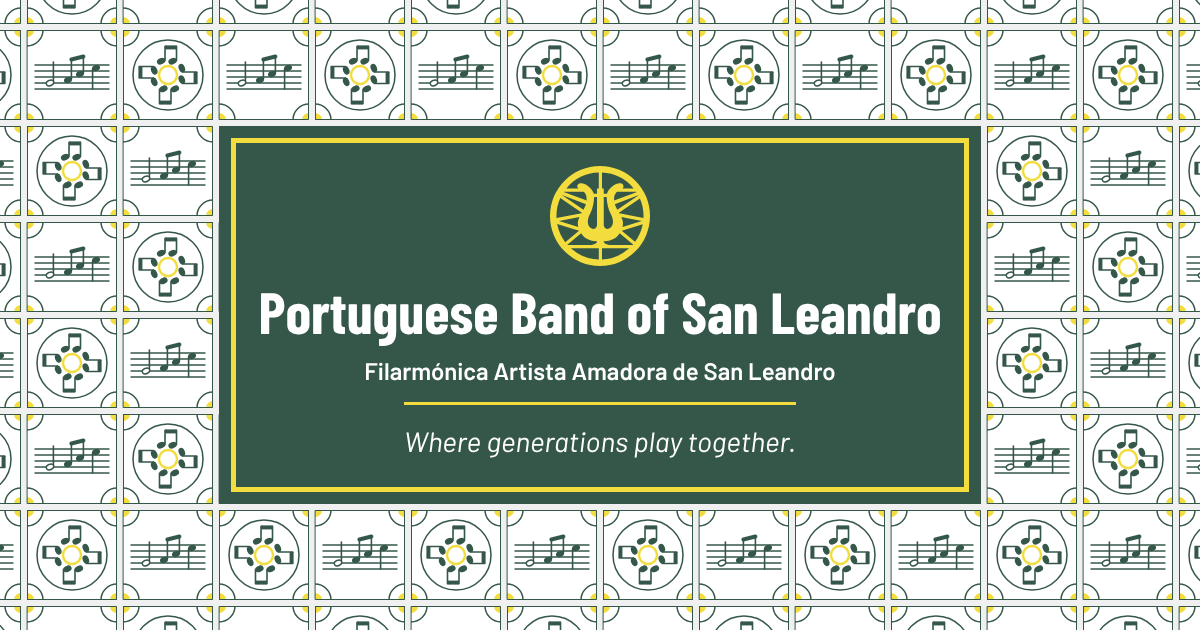
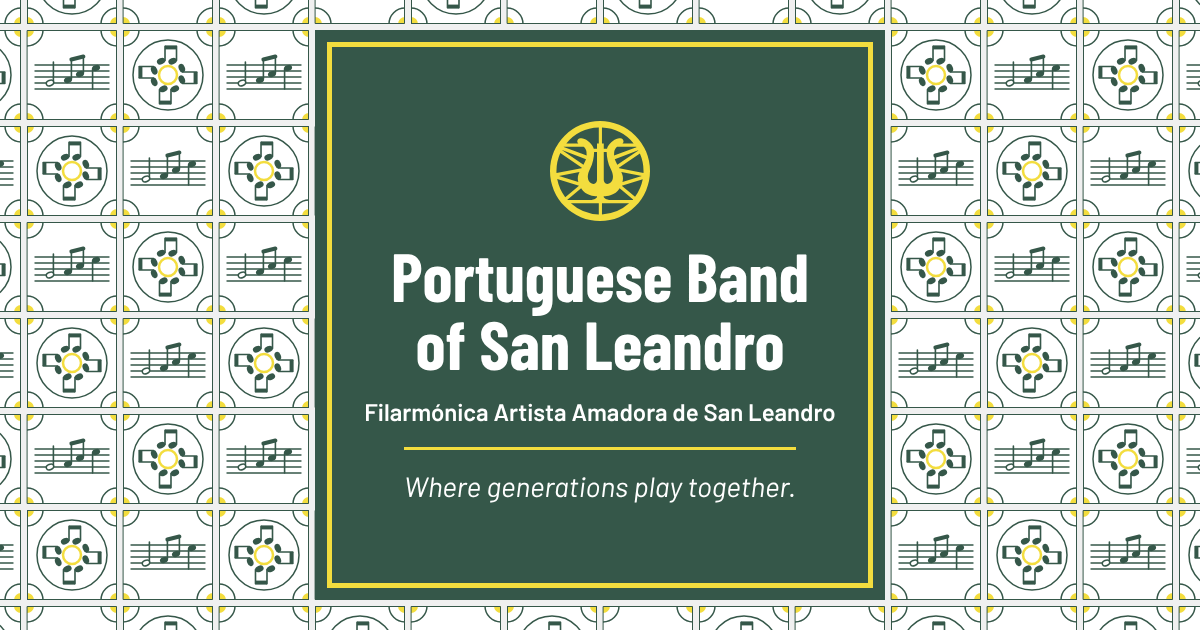
Share image: use the square box
Claude-Session: https://claude.ai/code/session_01G1oWUYPw8nBcffnSWFjEqH

Changed region(s): [[0.185, 0.0302, 0.8325, 0.9651]]

diff --git a/docs/brand.md b/docs/brand.md
@@ -16,7 +16,7 @@ Translation: "Band of Amateur Artists of San Leandro".
 
 - **Minimalist logo** (`src/assets/logo.svg`): a gold lyre in a circle. Used now for the header and favicon.
 - **Favicon and app icons:** the gold lyre on hunter green: a disc for browser tabs (`public/favicon.svg`, `favicon.ico`), a square for phone home screens (`apple-touch-icon.png`) and for search engines' organization logo (`logo.png`, 512 px). Never gold on transparent: it nearly disappears on white.
-- **Share image** (`public/share.png`, 1200×630): what links show when shared on social media and in messages. The lyre, both names and the tagline in a hunter-green box with a gold border, floating over alternating rosette and staff tiles. The box is 8 × 4 tiles, centered on grout lines so no tile is cut, and its gold border sits inside a green margin, apart from the tiles' gold corners. Square crops (some messaging apps) keep the box. Used by every page without its own image; later, pages can use a real band photo. To update it, open `/design/share/1200x630` on beta and screenshot it at exactly 1200×630.
+- **Share image** (`public/share.png`, 1200×630): what links show when shared on social media and in messages. The lyre, both names and the tagline in a hunter-green box with a gold border, floating over alternating rosette and staff tiles. The box is a square of 6 × 6 tiles, centered on grout lines and inset by half the grout, so the gap around it matches the gap between tiles and no tile is cut; its gold border sits inside a green margin, apart from the tiles' gold corners. Being square, it survives the square crops some messaging apps make (a wide box lost the ends of the name). Used by every page without its own image; later, pages can use a real band photo. To update it, open `/design/share/1200x630` on beta and screenshot it at exactly 1200×630.
 - **Icons:** [Lucide](https://lucide.dev), a free open-source set; simple line icons that match the line-drawn patterns. Drawn in hunter green or white, never gold.
 - **Uniform crest:** worn on the uniforms, but there's no good vector file, so it's not on the site yet. Getting a vector is on `todo.md`.
 - The **bass drum head** reads "Filarmónica Artista Amadora · 1980 · San Leandro Cal." in a classic circular lettering, a nice reference for heritage styling.
